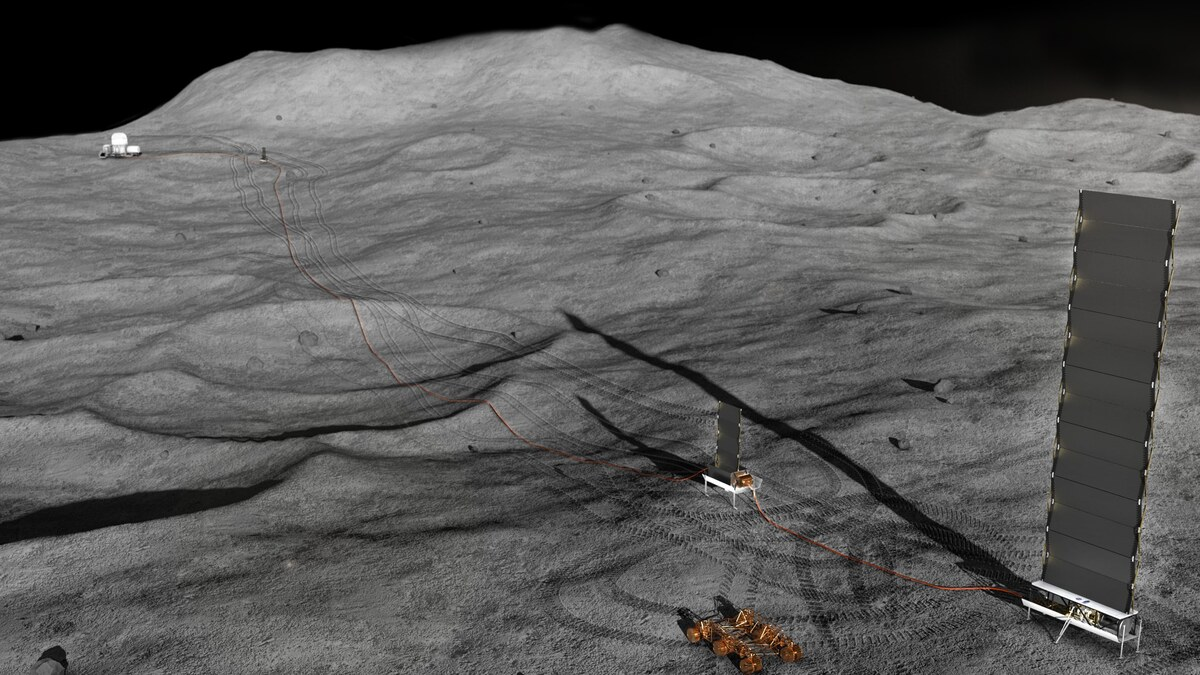
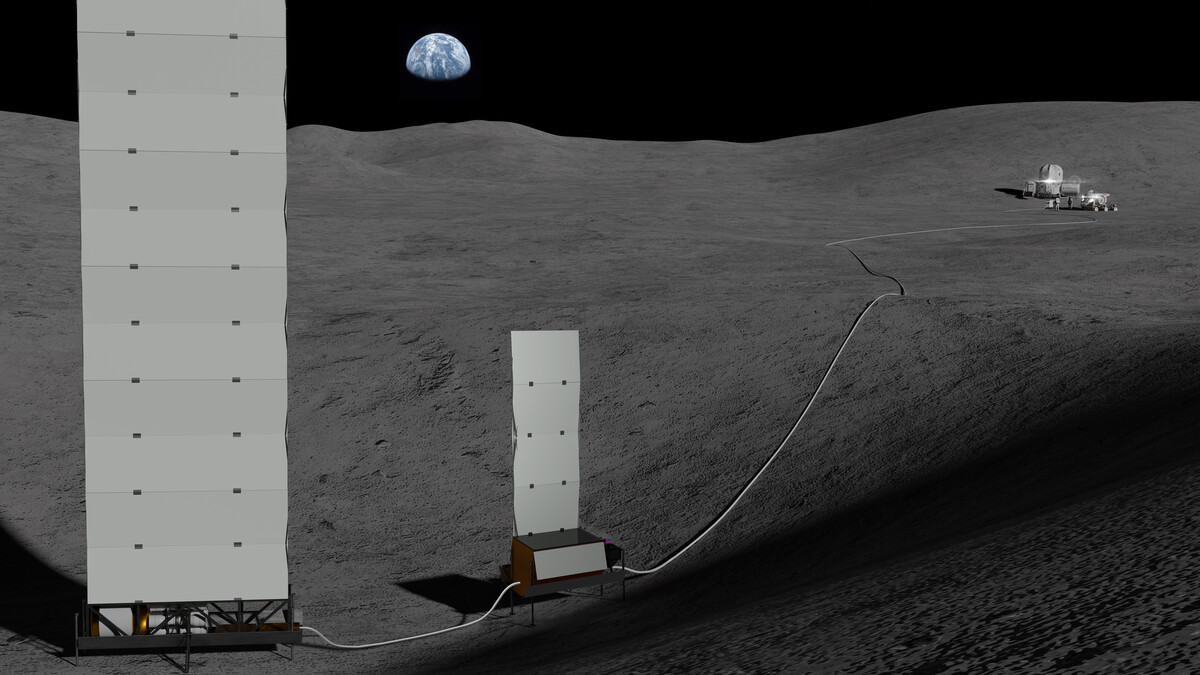
Night power draft: NASA LR-1 illustration as hero, add darkness infographic
Claude-Session: https://claude.ai/code/session_016zU8WNqJgkx1BCU2FbgJDx

diff --git a/drafts/lunar-night-power-november-25/article_draft.md b/drafts/lunar-night-power-november-25/article_draft.md
@@ -54,6 +54,8 @@ Location does part of the work. At the south pole, where Artemis crews are heade
 
 A team led by Philipp Gläser simulated 19 years of lighting on the ridge between Shackleton and de Gerlache craters for a 2014 study. It found spots that are sunlit 92.3 percent of the time at 2 meters (6.6 feet) above the ground and 95.66 percent at 10 meters (33 feet). The longest stretches of darkness there typically last three to five days.
 
+![Hours of darkness on the moon compared. Graphic: Artemis Briefing.](https://grandmasterjc.github.io/artemis2-config/updates/images/lunar-night-power-november-25-darkness.jpg)
+
 So NASA's solar hardware for the pole stands upright. In 2022 the agency awarded $19.4 million to three companies for prototype arrays that deploy up to 32 feet (10 meters) high, because the sun never climbs far above the polar horizon. The user's guide sets a first-phase target to match: 5 kilowatts of generation and storage, and survival through more than 120 hours, or five days, of darkness.
 
 The well-lit ridges are small, and the ice that draws NASA to the pole lies in craters the sun never reaches.
@@ -62,7 +64,7 @@ The well-lit ridges are small, and the ice that draws NASA to the pole lies in c
 
 A fission reactor makes heat by splitting uranium atoms, in sunlight or without it. In LR-1 that heat will drive a closed Brayton cycle, a sealed loop of gas that spins a turbine, and the fuel will be high-assay low-enriched uranium, according to the American Nuclear Society's summary of the solicitation. Heat the turbine cannot use has to be radiated to space from large panels.
 
-![A model of a liquid-metal-cooled reactor with Brayton power conversion, displayed at NASA Headquarters on March 24, 2026. Credit: NASA/Bill Ingalls.](https://grandmasterjc.github.io/artemis2-config/updates/images/lunar-night-power-november-25-reactor-model.jpg)
+![A model of a liquid-metal-cooled reactor, shown at NASA Headquarters in March 2026. Credit: NASA/Bill Ingalls.](https://grandmasterjc.github.io/artemis2-config/updates/images/lunar-night-power-november-25-reactor-model.jpg)
 
 NASA has run a small space reactor on the ground before. From November 2017 through March 2018, its Kilopower experiment ran in Nevada with a uranium core about the size of a paper towel roll, ending in a 28-hour test at full power, according to the agency.
 
